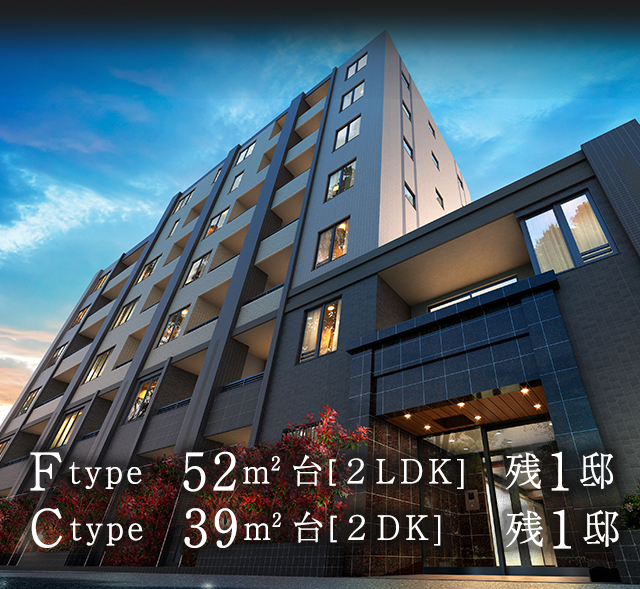
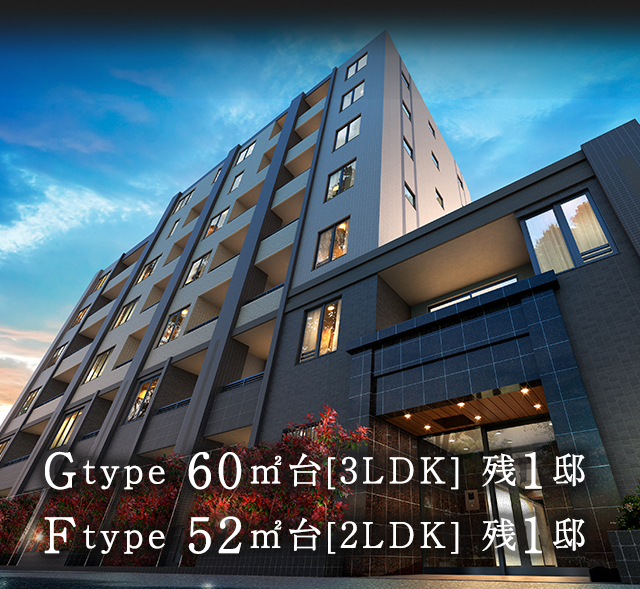
update text and inages for presis 中野哲学堂

Changed region(s): [[0.0312, 0.7334, 0.9688, 0.9779]]

diff --git a/prostyle-residence/www/nakanotetsugakudo/outline.php b/prostyle-residence/www/nakanotetsugakudo/outline.php
@@ -205,23 +205,23 @@
 					      		<table class="table table-bordered table_outline">
 					      			<tr>
 					      				<th>販売戸数</th>
-					      				<td>6戸</td>
+					      				<td>5戸</td>
 					      			</tr>
 					      			<tr>
 					      				<th>販売価格</th>
-					      				<td>3,890万円〜6,190万円</td>
+					      				<td>5,290万円〜6,190万円</td>
 					      			</tr>
 					      			<tr>
 					      				<th>間取り</th>
-					      				<td>2DK～3LDK</td>
+					      				<td>2LDK〜3LDK</td>
 					      			</tr>
 					      			<tr>
 					      				<th>住戸専有面積</th>
-					      				<td>39.44㎡〜63.88㎡</td>
+					      				<td>52.91㎡〜63.88㎡</td>
 					      			</tr>
 					      			<tr>
 					      				<th>バルコニー面積</th>
-					      				<td>3.75㎡～6.45㎡</td>
+					      				<td>3.75㎡〜6.45㎡</td>
 					      			</tr>
 					      			<tr>
 					      				<th>ルーフバルコニー面積</th>
@@ -237,19 +237,19 @@
 					      			</tr>
 					      			<tr>
 					      				<th>管理費（月額）</th>
-					      				<td>15,305円〜22,715円 ※インターネット・TV使用料含む</td>
+					      				<td>19,385円〜22,715円　※インターネット・TV使用料含む</td>
 					      			</tr>
 					      			<tr>
 					      				<th>修繕積立金（月額）</th>
-					      				<td>3,160円〜5,110円</td>
+					      				<td>4,230円〜5,110円</td>
 					      			</tr>
 					      			<tr>
 					      				<th>管理準備金（引渡時一括）</th>
-					      				<td>14,755円〜22,165円</td>
+					      				<td>18,835円〜22,165円</td>
 					      			</tr>
 					      			<tr>
 					      				<th>修繕積立基金（引渡時一括）</th>
-					      				<td>211,720円〜342,370円</td>
+					      				<td>283,410円〜342,370円</td>
 					      			</tr>
 					      			<tr>
 					      				<th>備考</th>
@@ -268,12 +268,12 @@
 											</div>
 
 											<div class="mb-4">
-												<p>■支払い例 Cタイプ [2DK（39.44㎡）] 3890万円の場合</p>
-												<p>毎月の支払い額／98,139円</p>
+												<p>■支払い例 Fタイプ [2LDK（52.91㎡）] 5290万円の場合</p>
+												<p>毎月の支払い額／134,290円</p>
 												<p>ボーナス時加算額／0円</p>
 												<p>頭金／90万円</p>
-												<p>借入金の月々の元本／3800万円</p>
-												<p>借入金のボーナス払いの元本／0円  </p>
+												<p>借入金の月々の元本／5200万円</p>
+												<p>借入金のボーナス払いの元本／0円</p>
 											</div>
 
 											<div class="">

diff --git a/prostyle-residence/www/nakanotetsugakudo/plan.php b/prostyle-residence/www/nakanotetsugakudo/plan.php
@@ -467,42 +467,6 @@
 		      							</div>
 		      						</div>
 
-		      						<div class="boxroomplan mt-5">
-		      							<h3 class="title mb-5"><span>2DK</span></h3>
-
-		      							<div class="row">
-		      								<div class="col-12 col-md-6">
-		      									<div class="roomplan_item">
-		      										<div class="roomplan_item_top">
-			      										<div class="row no-gutters">
-			      											<div class="col-5">
-			      												<h1><img src="images/1x/cg_type.png" alt="" class="img-fluid"></h1>
-			      											</div>
-			      											<div class="col-7">
-			      												<div class="roomplan_item_info">
-				      												<h3>2DK <span>+SIC</span></h3>
-				      												<p>住戸専有面積/</p>
-				      												<h2>39.<span class="uint">44㎡</span> <span class="approximately">（約11.93坪）</span></h2>
-				      												<p>バルコニー面積/ 4.20㎡（約1.27坪）</p>
-			      												</div>
-			      											</div>
-			      										</div>
-		      										</div>
-		      										<div class="w_btn d-flex">
-			      										<div class="btn_sm_black">対面型キッチン</div>
-			      										<div class="btn_sm_black">シューズインクローゼット</div>
-		      										</div>
-		      										<div class="roomplan_item_img">
-		      											<img src="images/1x/roomplan13.png" alt="" class="img-fluid">
-		      										</div>
-		      										<div class="roomplan_item_footer">
-		      											<a href="plan_detail_cg.php" onclick="centeredPopup(this.href,'myWindow','1000','700','yes');return false" class="btn btnViewdetail">VIEW DETAIL</a>
-		      										</div>
-		      									</div>
-		      								</div>
-		      							</div>
-		      						</div>
-
 		      						<p class="gray mt-5 mb-5"><small>※ＷＩＣ：ウォークインクローゼット、ＦＣ：ファミリークローク、ＳＩＣ：シューズインクローゼット、Ｓ：サービスルーム(納戸)</small></p>
 
 		      					</div>

diff --git a/prostyle-residence/www/nakanotetsugakudo/index.php b/prostyle-residence/www/nakanotetsugakudo/index.php
@@ -102,9 +102,9 @@
 							<ul class="topbanner_footer">
 								<li>
 									<p>
-										<span class="meter_label">39m<sup>2</sup>超</span>
-										<span class="price_yen">3,890</span><span class="label_yen">万円〜</span>
-										<span class="monthly">月々</span> <span class="price_stand">9</span>
+										<span class="meter_label">52m<sup>2</sup>超</span>
+										<span class="price_yen">5,290</span><span class="label_yen">万円〜</span>
+										<span class="monthly">月々</span> <span class="price_stand">13</span>
 										<span class="label_stand">万円台～</span>
 									</p>
 								</li>
@@ -153,6 +153,14 @@
 			      								</div>
 			      								<div class="col-12 col-sm-12 col-md-9 align-self-center">
 			      									<div class="box_informations_content">
+			      										<div class="row">
+			      											<div class="col-3 col-sm-2 align-self-center">
+			      												<p>2020.2.3</p>
+			      											</div>
+			      											<div class="col-9 col-sm-10 align-self-center">
+			      												<p>Cタイプ完売いたしました。</p>
+			      											</div>
+			      										</div>
 			      										<div class="row">
 			      											<div class="col-3 col-sm-2 align-self-center">
 			      												<p>2019.12.13</p>
